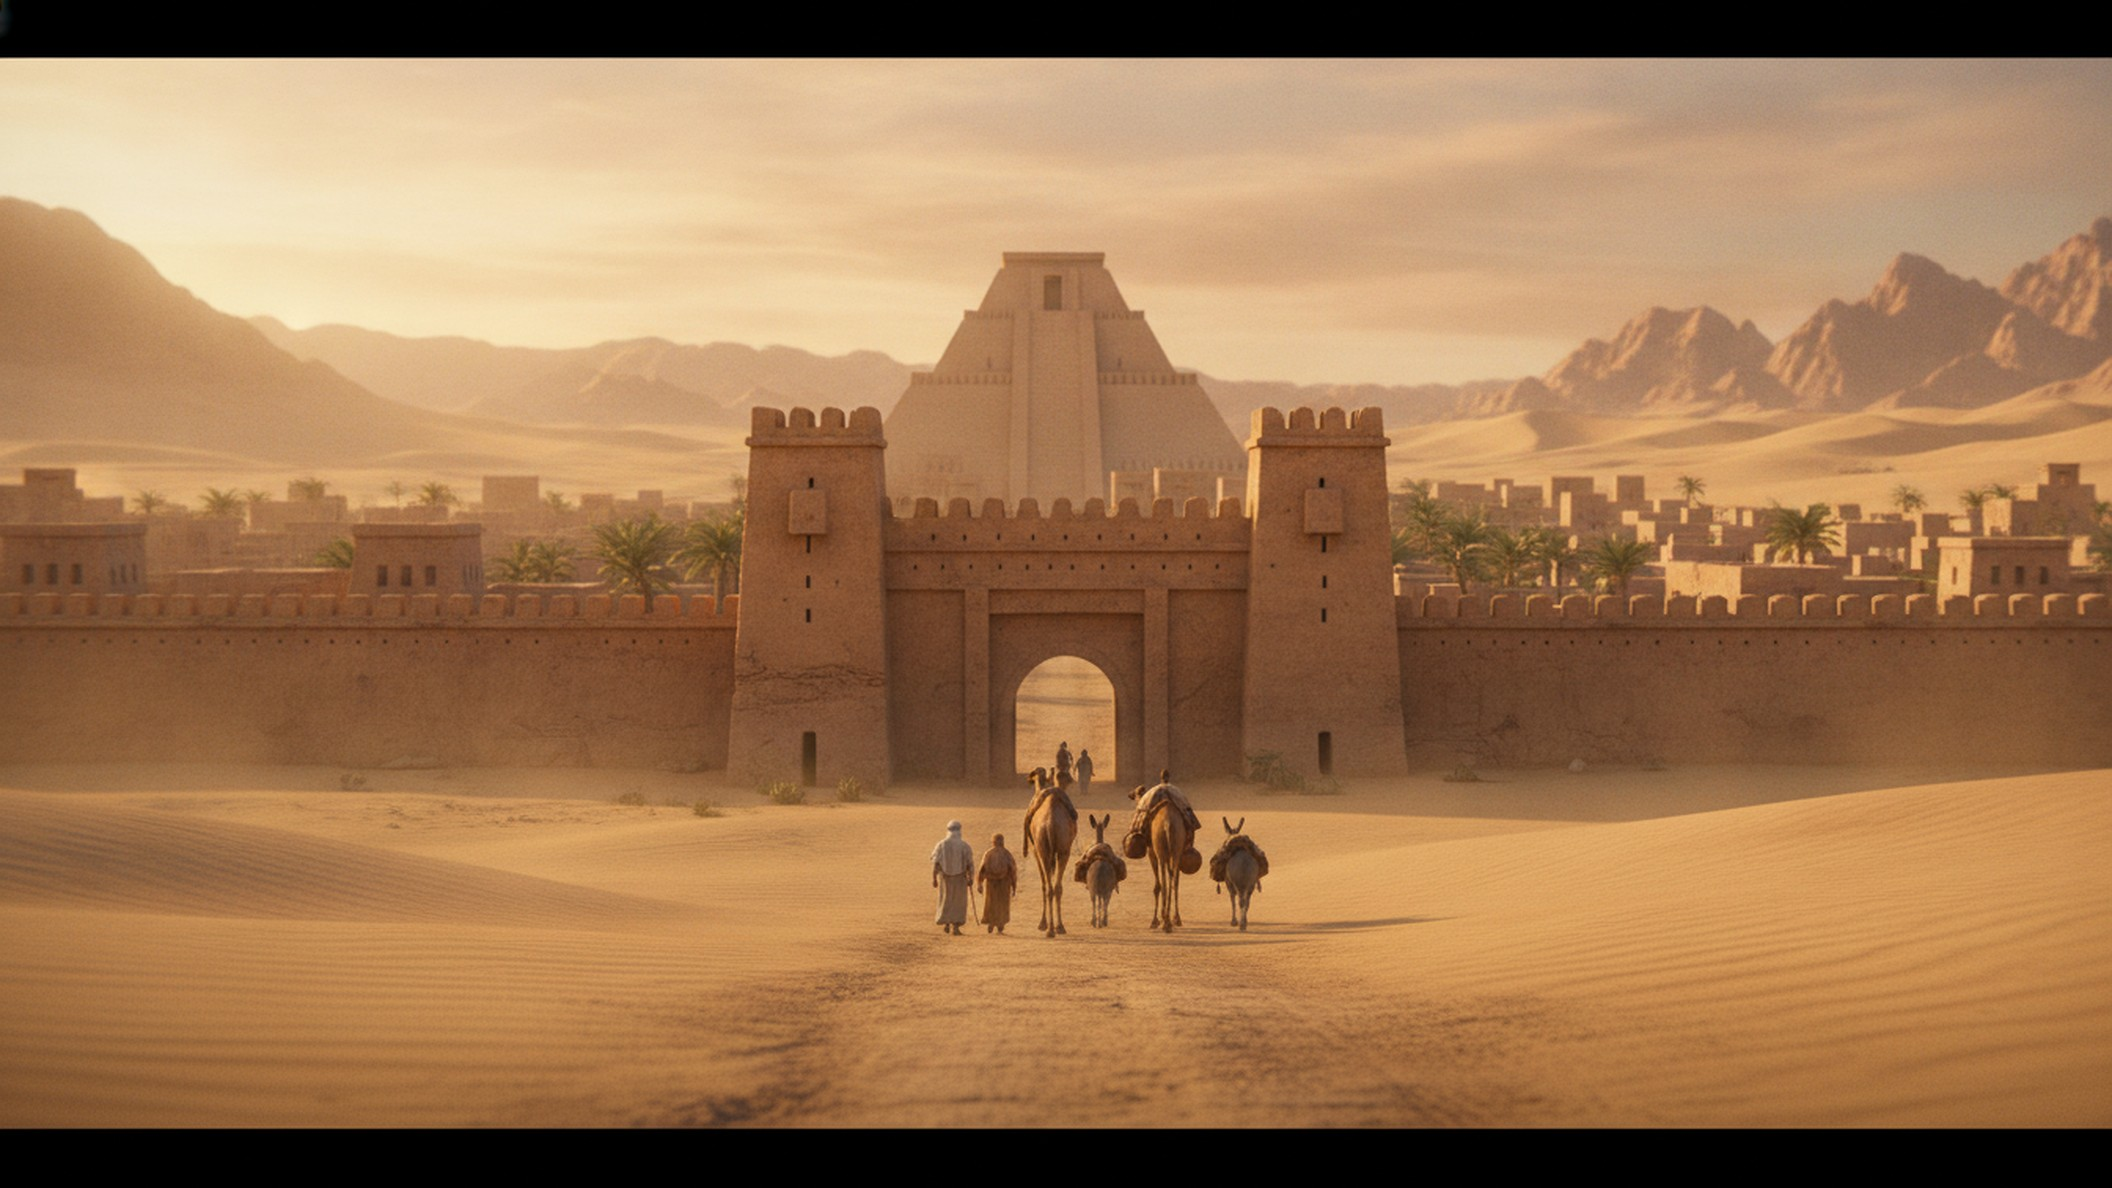
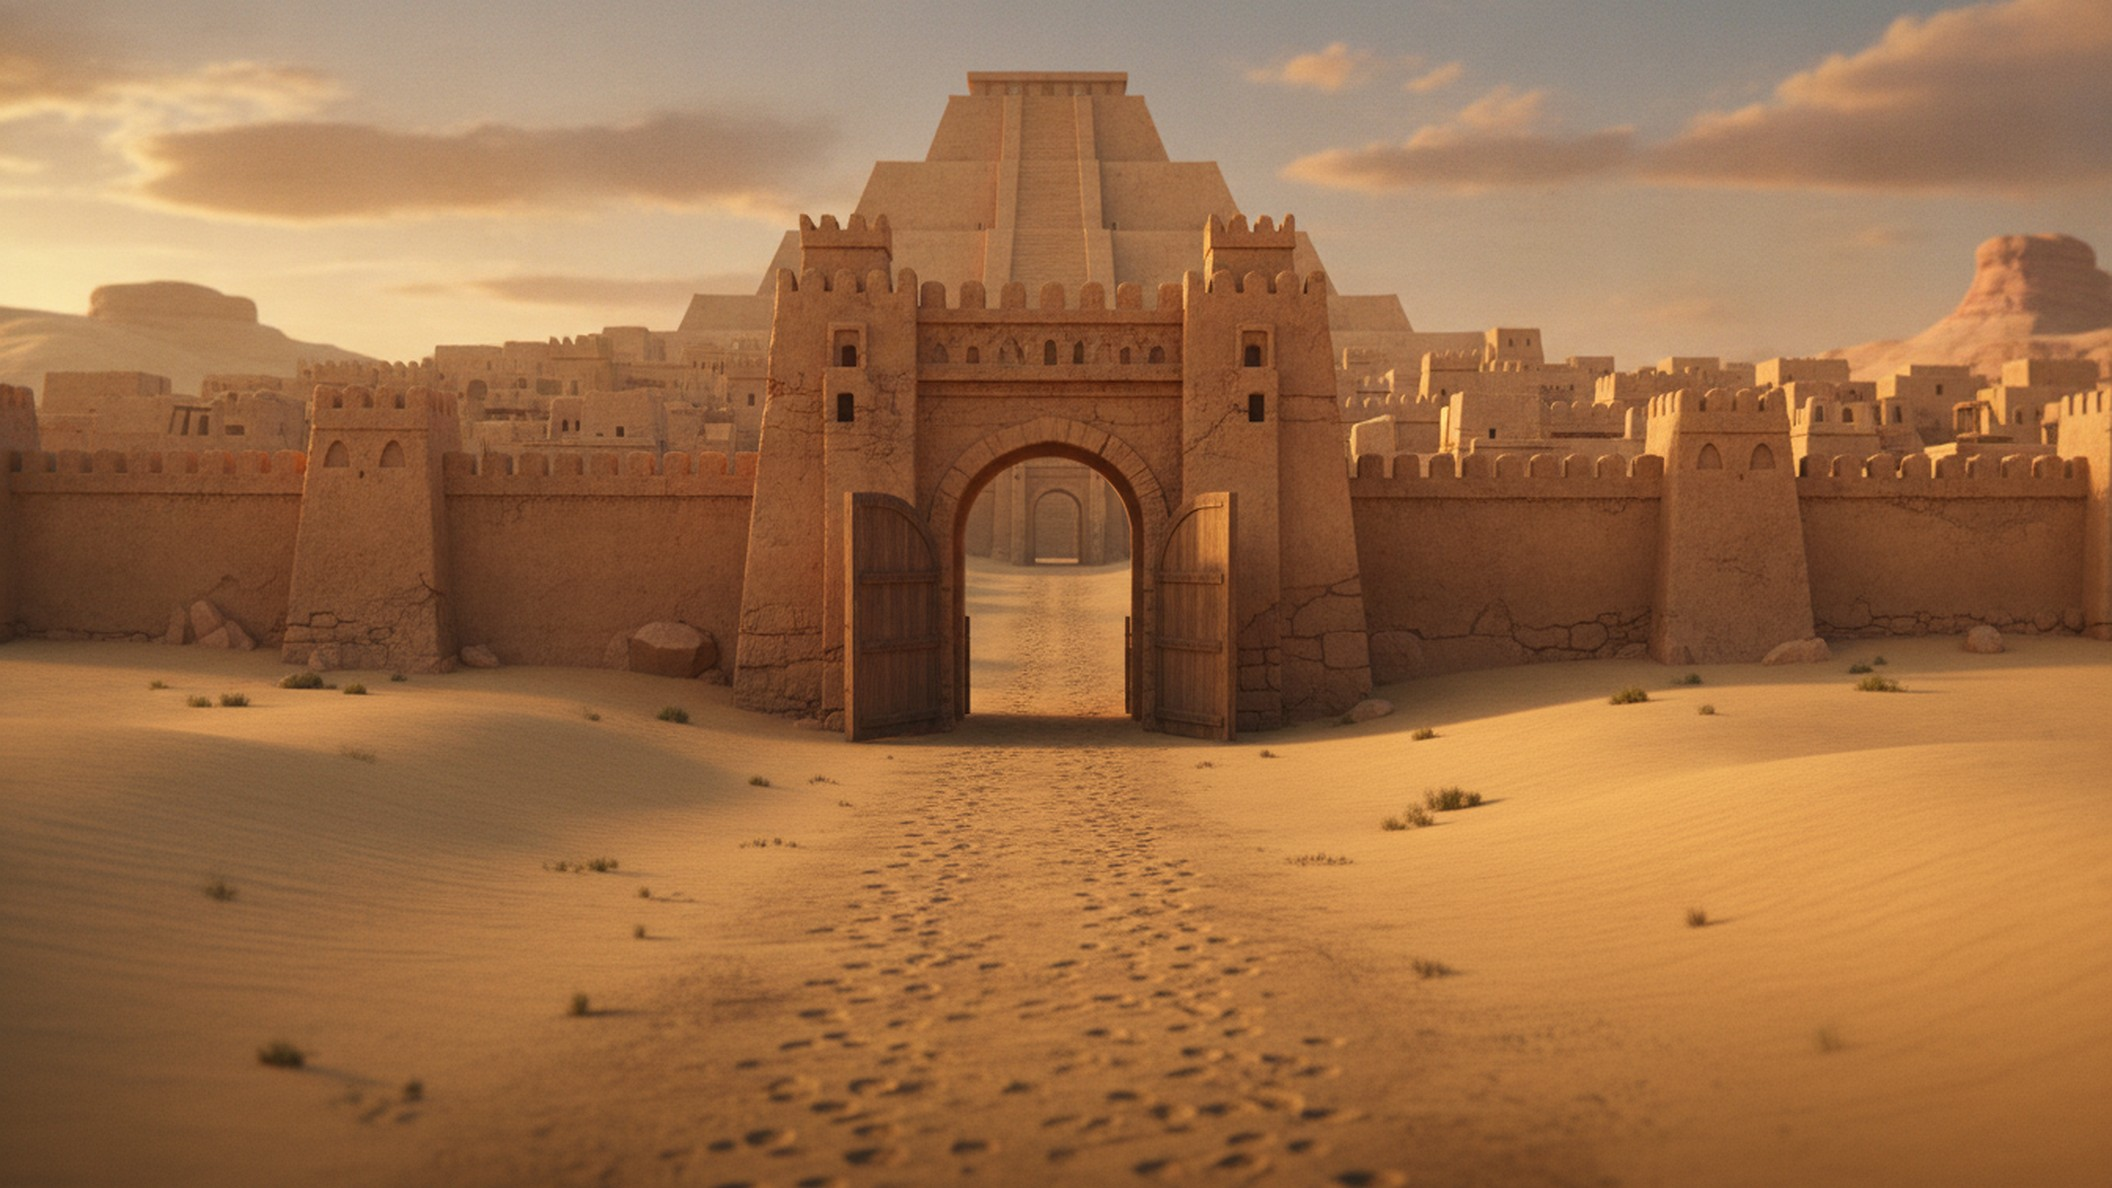
Ibrahim: remove every figure that could be read as a prophet, Hajar or Ismail (8 scenes regenerated); band auto-crop
Claude-Session: https://claude.ai/code/session_019ZSVGSKwArszmxSEYesnzJ

diff --git a/long/03-ibrahim-ur/index.html b/long/03-ibrahim-ur/index.html
@@ -82,6 +82,7 @@
       <audio id="vo12" class="clip" src="assets/ch12/narration.wav" data-start="768.32" data-duration="74.44" data-track-index="10" data-volume="1"></audio>
       <audio id="vo13" class="clip" src="assets/ch13/narration.wav" data-start="843.46" data-duration="53.56" data-track-index="10" data-volume="1"></audio>
       <audio id="vo14" class="clip" src="assets/ch14/narration.wav" data-start="897.72" data-duration="69.32" data-track-index="10" data-volume="1"></audio>
+      <audio id="amb" class="clip" src="assets/ambience.wav" data-start="0" data-duration="968.54" data-track-index="11" data-volume="1.0"></audio>
     </div>
     <script>
       window.__timelines = window.__timelines || {};

diff --git a/tools/gen_scenes.py b/tools/gen_scenes.py
@@ -19,6 +19,22 @@ def trim_bars(im):
     return im
 
 
+def trim_flat(im):
+    """Crop a flat single-colour band Gemini sometimes leaves at the bottom or top (any colour)."""
+    import statistics
+    g = im.convert("L"); w, h = g.size
+    def flat(y):
+        row = g.crop((0, y, w, y + 1)).get_flattened_data() if hasattr(g, "get_flattened_data") else g.crop((0, y, w, y + 1)).getdata()
+        return statistics.pstdev(list(row)) < 4
+    b = h - 1
+    while b > h * 0.6 and flat(b): b -= 1
+    t0 = 0
+    while t0 < h * 0.4 and flat(t0): t0 += 1
+    if b < h - 8 or t0 > 8:
+        im = im.crop((0, t0, w, b + 1))
+    return im
+
+
 def gen(d, cfg, k):
     body = {"contents": [{"parts": [{"text": cfg["style"] + " " + RULES + cfg["scenes"][k]}]}],
             "generationConfig": {"responseModalities": ["IMAGE"], "imageConfig": {"aspectRatio": cfg.get("aspect", "9:16")}}}
@@ -34,7 +50,7 @@ def gen(d, cfg, k):
     for p in c["content"]["parts"]:
         if "inlineData" in p:
             im = Image.open(io.BytesIO(base64.b64decode(p["inlineData"]["data"]))).convert("RGB")
-            im = trim_bars(im)
+            im = trim_flat(trim_bars(im))
             size = (1188, 2112) if cfg.get("aspect", "9:16") == "9:16" else (2112, 1188)
             tw, th = size
             s = max(tw / im.width, th / im.height); im = im.resize((round(im.width * s), round(im.height * s)), Image.LANCZOS)
